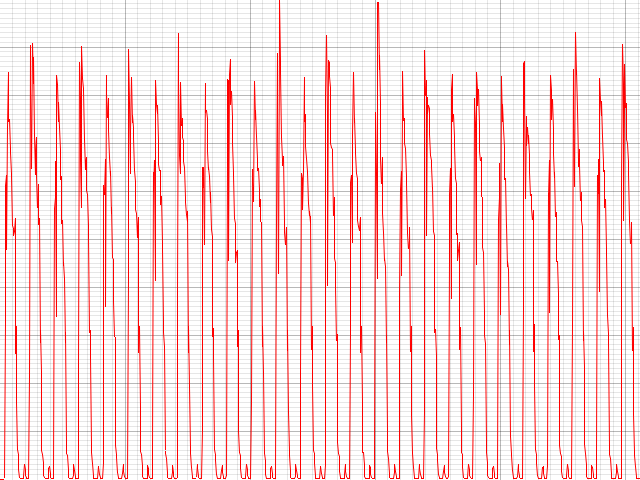
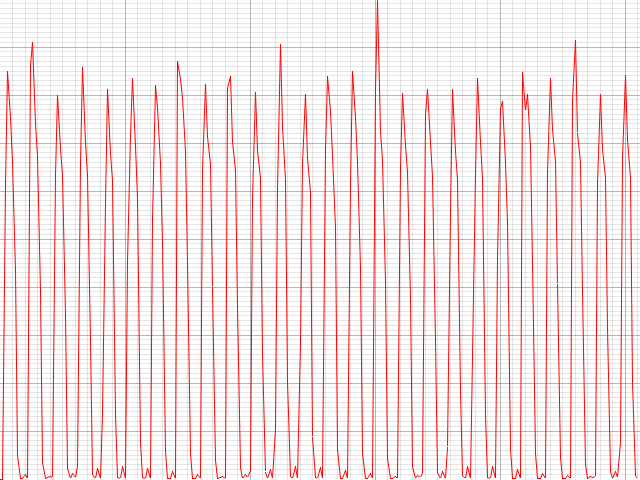
Testing sharpening

Changed region(s): [[0.0, 0.0, 1.0, 1.0]]

diff --git a/music_not_found/src/main.rs b/music_not_found/src/main.rs
@@ -91,17 +91,20 @@ fn process_file(file_path: &Path) {
     plot::plot(&spectral_difference.result, "spectr_diff.png");
 
     let kernel_function = |k: &[f32]| {
-        let neighborhood: Vec<usize> = (0..28).into_iter().chain((37..65).into_iter()).collect();
-        neighborhood.into_iter().map(|x| k[x] * 0.00815).sum::<f32>() +
-            (k[28] + k[29] + k[35] + k[36]) * 0.03 + (k[30] + k[31] + k[33] + k[34]) * 0.05 + k[32] * 0.16
+        // let neighborhood: Vec<usize> = (0..28).into_iter().chain((37..65).into_iter()).collect();
+        // neighborhood.into_iter().map(|x| k[x] * 0.00815).sum::<f32>() +
+        //     (k[28] + k[29] + k[35] + k[36]) * 0.03 + (k[30] + k[31] + k[33] + k[34]) * 0.05 + k[32] * 0.16
+        (k[0] + k[4]) * (-0.3) + (k[1] + k[3]) * (-0.5) + k[2] * 2.6
     };
 
     let output: Vec<f32> = normalize(&vec_mult(
         &vec![
-            &convolve1D(&high_frequency.result, 65, kernel_function)[..],
-            &convolve1D(&spectral_difference.result, 65, kernel_function)[..],
+            &convolve1D(&high_frequency.result, 5, kernel_function)[..],
+            &convolve1D(&spectral_difference.result, 5, kernel_function)[..],
         ][..],
     )[..]);
+
+    let output: Vec<f32> = normalize(&convolve1D(&spectral_difference.result, 5, kernel_function)[..]);
 
     plot::plot(&output, "output.png");
 
